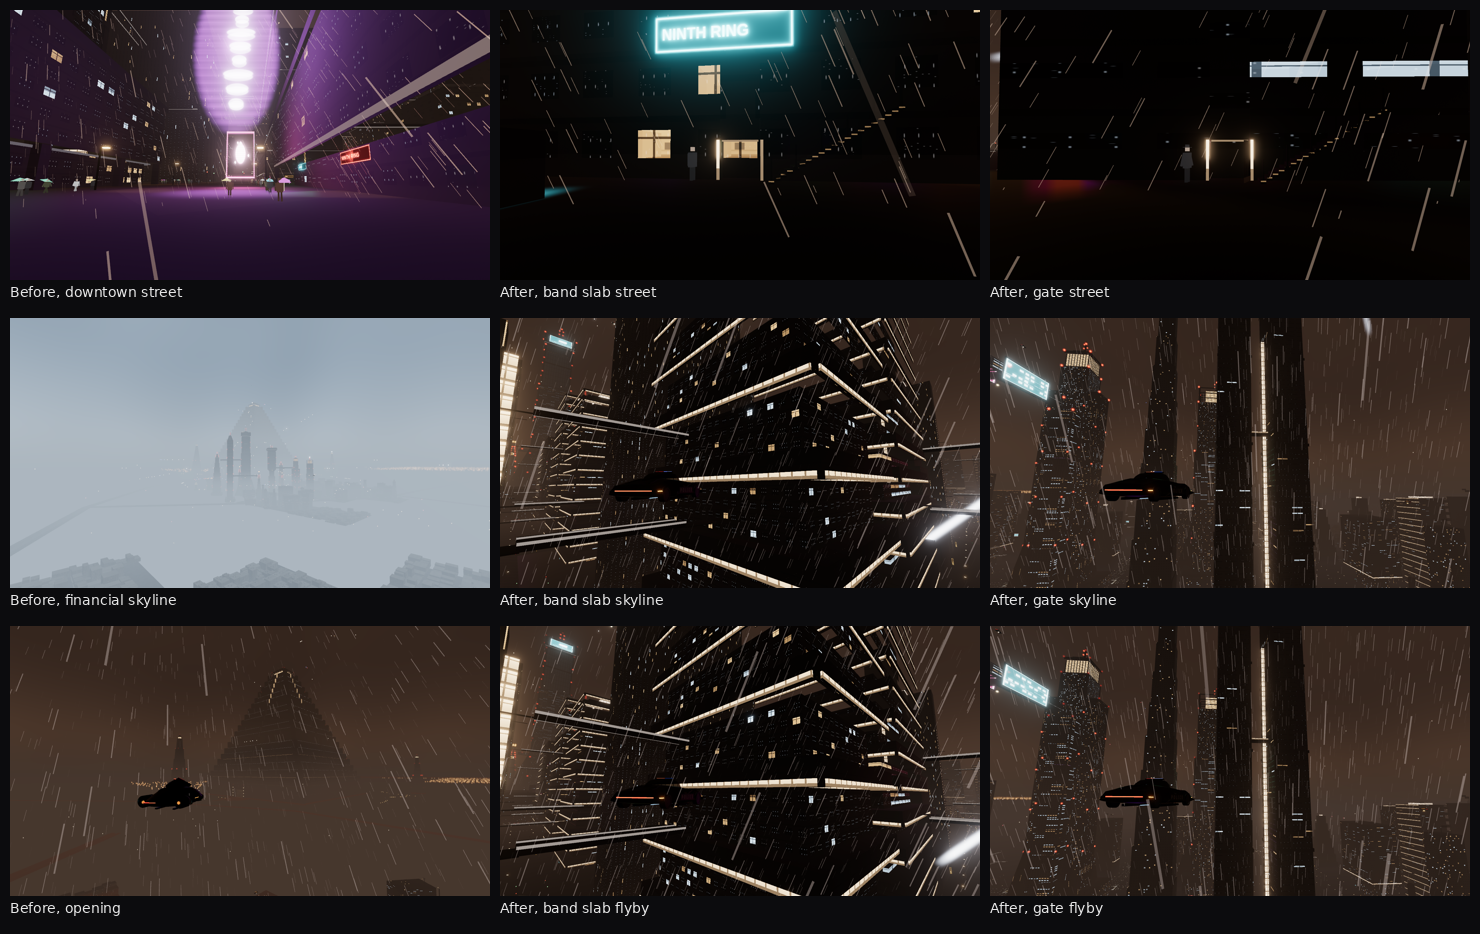
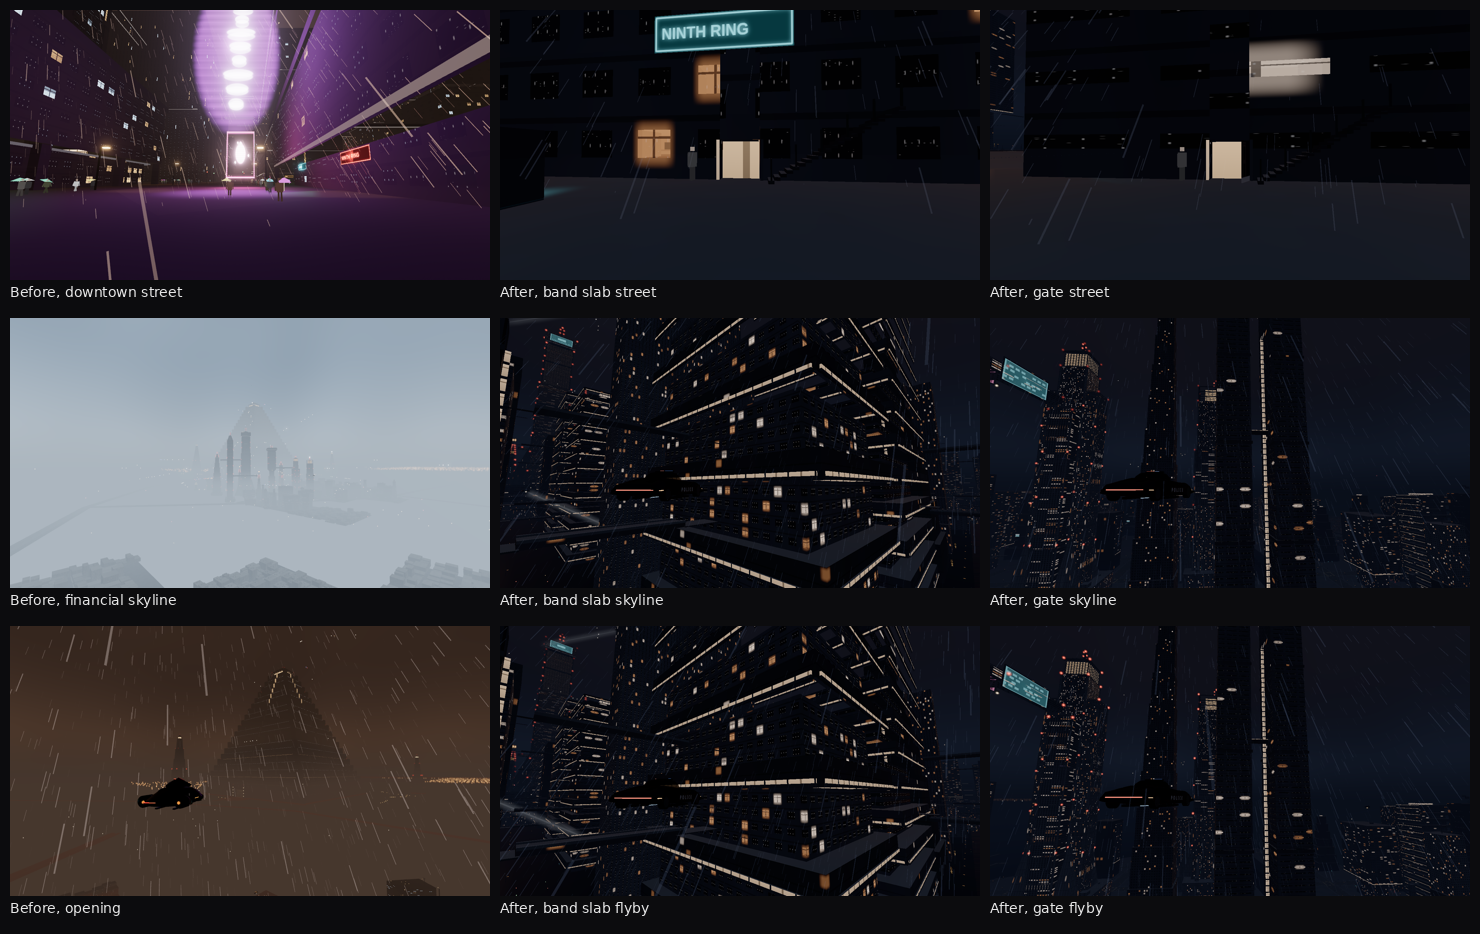
Refresh the contact sheet and silhouette numbers for the night grade.
The sheet uses the reshot street, flyby, and skyline frames. The IoU table matches the latest footprint audit.

diff --git a/docs/buildings/b1-2026-10-11.html b/docs/buildings/b1-2026-10-11.html
@@ -82,17 +82,17 @@
   <table>
     <thead><tr><th>Family</th><th>IoU</th></tr></thead>
     <tbody>
-      <tr><td>Band slab</td><td>0.86</td></tr>
-      <tr><td>Ziggurat</td><td>0.95</td></tr>
-      <tr><td>Buttress</td><td>0.77</td></tr>
-      <tr><td>Monolith</td><td>0.91</td></tr>
-      <tr><td>Residential stack</td><td>1.00</td></tr>
-      <tr><td>Holo shaft</td><td>0.91</td></tr>
-      <tr><td>Cantilever</td><td>0.98</td></tr>
-      <tr><td>Lantern</td><td>0.96</td></tr>
-      <tr><td>West Canyon Gate</td><td>0.89</td></tr>
-      <tr><td>Caldera Step</td><td>0.91</td></tr>
-      <tr><td>Kite Obelisk</td><td>0.93</td></tr>
+      <tr><td>Band slab</td><td>0.889</td></tr>
+      <tr><td>Ziggurat</td><td>0.954</td></tr>
+      <tr><td>Buttress</td><td>0.776</td></tr>
+      <tr><td>Monolith</td><td>0.905</td></tr>
+      <tr><td>Residential stack</td><td>1.000</td></tr>
+      <tr><td>Holo shaft</td><td>0.919</td></tr>
+      <tr><td>Cantilever</td><td>0.982</td></tr>
+      <tr><td>Lantern</td><td>0.999</td></tr>
+      <tr><td>West Canyon Gate</td><td>0.862</td></tr>
+      <tr><td>Caldera Step</td><td>0.887</td></tr>
+      <tr><td>Kite Obelisk</td><td>0.927</td></tr>
     </tbody>
   </table>
   <p class="note">The buttress score is the lowest because the piers and the mast are not part of the simple core envelope. That is the silhouette doing its job.</p>
